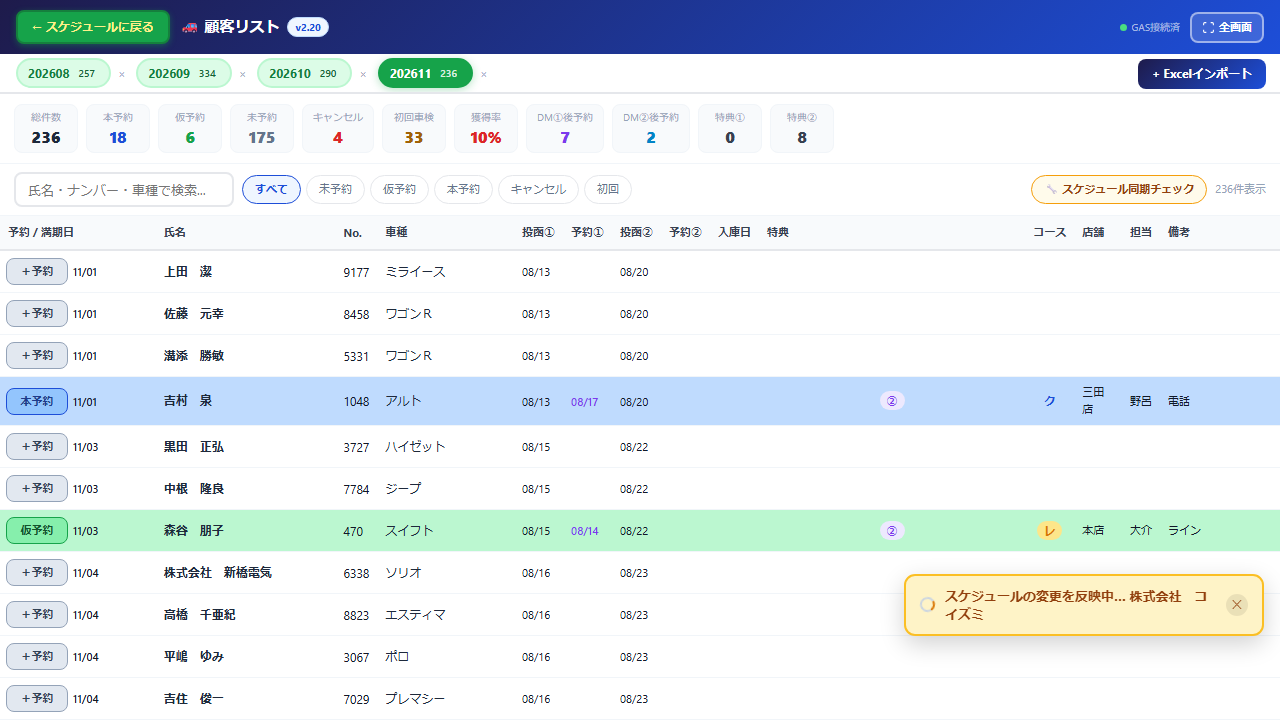
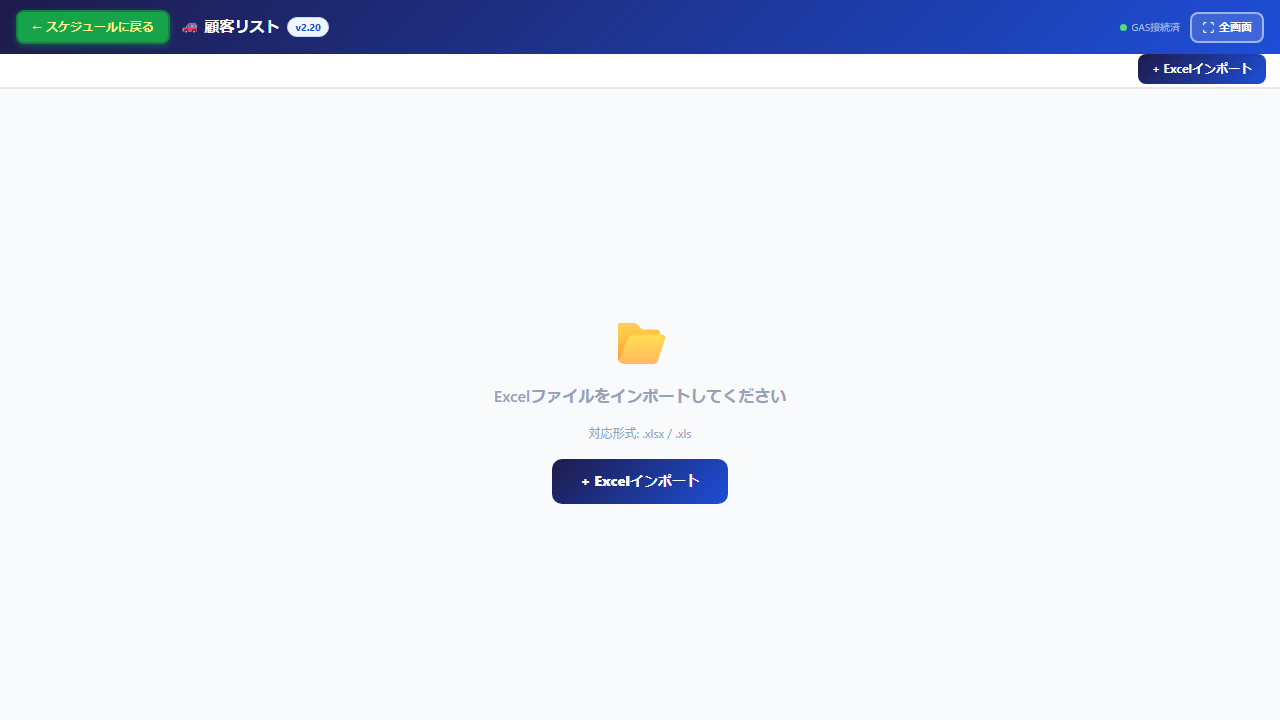
個人端末なのに自動ログインしない不具合を修正（v2.20）
管理者コンソールで認証したとき、端末の種類が未設定なら「共有」を
自動でセットしていた。そのため先にコンソールを使ったPCでは、
スケジュール画面が自動ログインせず、毎回ログイン画面が出ていた
（ユーザー指摘：閉じて開き直してもログイン画面）。
しかも、あとから「自分専用」に変える手段が無かった。

・コンソールは端末の種類を決めない（決めるのは登録時だけ）
・ログイン画面に「この端末を自分専用にする」を出す
  （登録者が1人だけで、種類が自分専用になっていない端末のみ）
  押すと次から開くだけで入れる

テスト: auth_ui_test.js 121件（共有扱いになった端末を自分専用に戻して
素通しで入れることを確認）

diff --git a/index_dev.html b/index_dev.html
@@ -3344,7 +3344,7 @@ const AuthAddScreen=({onDone,onCancel})=>{
   );
 };
 
-const LoginScreen=({onLogin,staffListH,staffListS,onRegister,onSettings,desktopListH,desktopListS,initialDesktop,onAddAuth,onAutoLogin,deviceName,deviceStore,authOn})=>{
+const LoginScreen=({onLogin,staffListH,staffListS,onRegister,onSettings,desktopListH,desktopListS,initialDesktop,onAddAuth,onAutoLogin,deviceName,deviceStore,authOn,onMakeOwn})=>{
   const [sel,setSel]=useState(null);
   // タイムアウト後（initialDesktopあり）はすぐスタッフ選択画面を表示
   const [deskSel,setDeskSel]=useState(()=>{
@@ -3505,6 +3505,21 @@ const LoginScreen=({onLogin,staffListH,staffListS,onRegister,onSettings,desktopL
           style={{width:'100%',padding:'14px 0',background:sel?`linear-gradient(135deg,${sel.store.color},${sel.store.accent})`:'#e5e7eb',color:sel?'white':'#9ca3af',border:'none',borderRadius:12,fontWeight:800,fontSize:16,cursor:sel?'pointer':'default',transition:'all 0.2s',marginBottom:10}}>
           {sel?`【${sel.store.name}】${sel.staff.name} でログイン →`:'担当者を選択してください'}
         </button>
+        {/* 登録者が1人だけの端末で、種類が「自分専用」になっていないとき。
+            自分しか使わない端末なら、ここで切り替えれば次から開くだけで入れる。 */}
+        {onMakeOwn&&(
+          <div style={{marginBottom:10,padding:'10px 13px',background:'#eff6ff',border:'1px solid #bfdbfe',borderRadius:10}}>
+            <div style={{fontSize:12,color:'#1e40af',lineHeight:1.7,marginBottom:7}}>
+              この端末は<b>共有</b>として登録されています。
+              ご自分しか使わない端末なら、<b>自分専用</b>に切り替えると次から開くだけで入れます。
+            </div>
+            <button onClick={onMakeOwn}
+              style={{width:'100%',padding:'9px 0',background:'white',border:'2px solid #93c5fd',borderRadius:9,
+                fontWeight:800,fontSize:13,color:'#1d4ed8',cursor:'pointer'}}>
+              この端末を自分専用にする
+            </button>
+          </div>
+        )}
         {onAutoLogin&&(
           <div style={{marginBottom:10,padding:'10px 13px',background:'#eff6ff',border:'1px solid #bfdbfe',borderRadius:10}}>
             <div style={{fontSize:12,color:'#1e40af',lineHeight:1.7,marginBottom:7}}>
@@ -10017,6 +10032,8 @@ function AppInner() {
         onLogin={u=>{hubUse(u.name);hubRenew(u.name);setCurrentUserPersist(u);setViewStore(u.store?.id||'honten');setView('schedule');setTimeout(()=>window.scrollTo({top:0,behavior:'instant'}),50);}}
         onAddAuth={_needEnrol?()=>setShowAuthAdd(true):null}
         deviceName={_devName} deviceStore={_devStore} authOn={AUTH_REQUIRED}
+        onMakeOwn={(authMine.length===1&&!authMine[0].isDevice&&hubKind()!=='own')
+          ?()=>{hubSetKind('own');setAuthAutoOff(false);refreshAuthMine();}:null}
         onAutoLogin={authAutoOff&&hubKind()==='own'&&authMine.length===1?()=>setAuthAutoOff(false):null}
         staffListH={_loginH} staffListS={_loginS}
         desktopListH={desktopListH} desktopListS={desktopListS}

diff --git a/auth_ui_test.js b/auth_ui_test.js
@@ -479,6 +479,27 @@ const dump = async (page, root) => page.evaluate(r => {
     t('共有端末：JSエラーなし', errs.length === 0, errs.slice(0, 2));
   });
 
+  // ── ③"" 「共有」になってしまった個人端末を、自分専用に戻せる ─────────
+  //   管理者コンソールが種類を勝手に「共有」にしていたため、自動ログインしなくなる
+  //   端末があった。直す手段が無かったので、ログイン画面から切り替えられるようにした。
+  await run(true, async (page, errs) => {
+    await regAs(page, 'daisuke@example.com');
+    await page.waitForTimeout(800);
+    // 種類を「共有」に書き換えて開き直す（コンソールが以前やっていたことを再現）
+    // 画面を閉じて開き直した状況にする（同じタブの再読み込みだとログイン状態が残る）
+    await page.evaluate(() => { localStorage.setItem('hub-v8-dev-auth-kind', 'shared'); sessionStorage.clear(); });
+    await page.reload({ waitUntil: 'domcontentloaded' });
+    t('共有扱いだとログイン画面が出る', await seeText(page, '担当者を選択してください'));
+    t('自分専用に切り替える案内が出る', await seeText(page, 'この端末を自分専用にする'));
+    await clickText(page, 'この端末を自分専用にする');
+    await page.waitForTimeout(1200);
+    t('切り替えるとそのまま入れる', !(await seeText(page, '担当者を選択してください', 2000)), await dump(page));
+    t('種類が自分専用になる', (await page.evaluate(() => localStorage.getItem('hub-v8-dev-auth-kind')))==='own');
+    await page.reload({ waitUntil: 'domcontentloaded' });
+    t('開き直しても素通しで入れる', !(await seeText(page, '担当者を選択してください', 4000)));
+    t('切り替えでJSエラーなし', errs.length === 0, errs.slice(0, 2));
+  });
+
   // ── ④ 管理者側：メール登録・招待・端末の取り消し ──────────────────
   await run(false, async (page, errs) => {
     await seeText(page, '担当者を選択してください');

diff --git a/admin.html b/admin.html
@@ -694,7 +694,8 @@ function bind(){
       var list = hubLoadMine().filter(function(x){ return x.name !== r.name; });
       list.push({uid:r.uid||'', name:r.name, myNumber:r.myNumber, store:r.store||'honten', token:r.token, exp:r.exp});
       hubSaveMine(list);
-      if (!hubKind()) hubSetKind('shared');   // 管理者画面は共有PCで開くことが多い。安全側に倒す。
+      // 端末の種類（自分専用／共有）はここでは決めない。決めるのはスケジュール画面の登録時。
+      // 以前ここで「共有」を入れていたため、その端末が自動ログインしなくなる不具合があった。
       hubApplyToken(r.token);
       S.me = {name:r.name, uid:r.uid, mail:S.mail};
       S.view = 'console'; S.tab = 'staff'; render();
